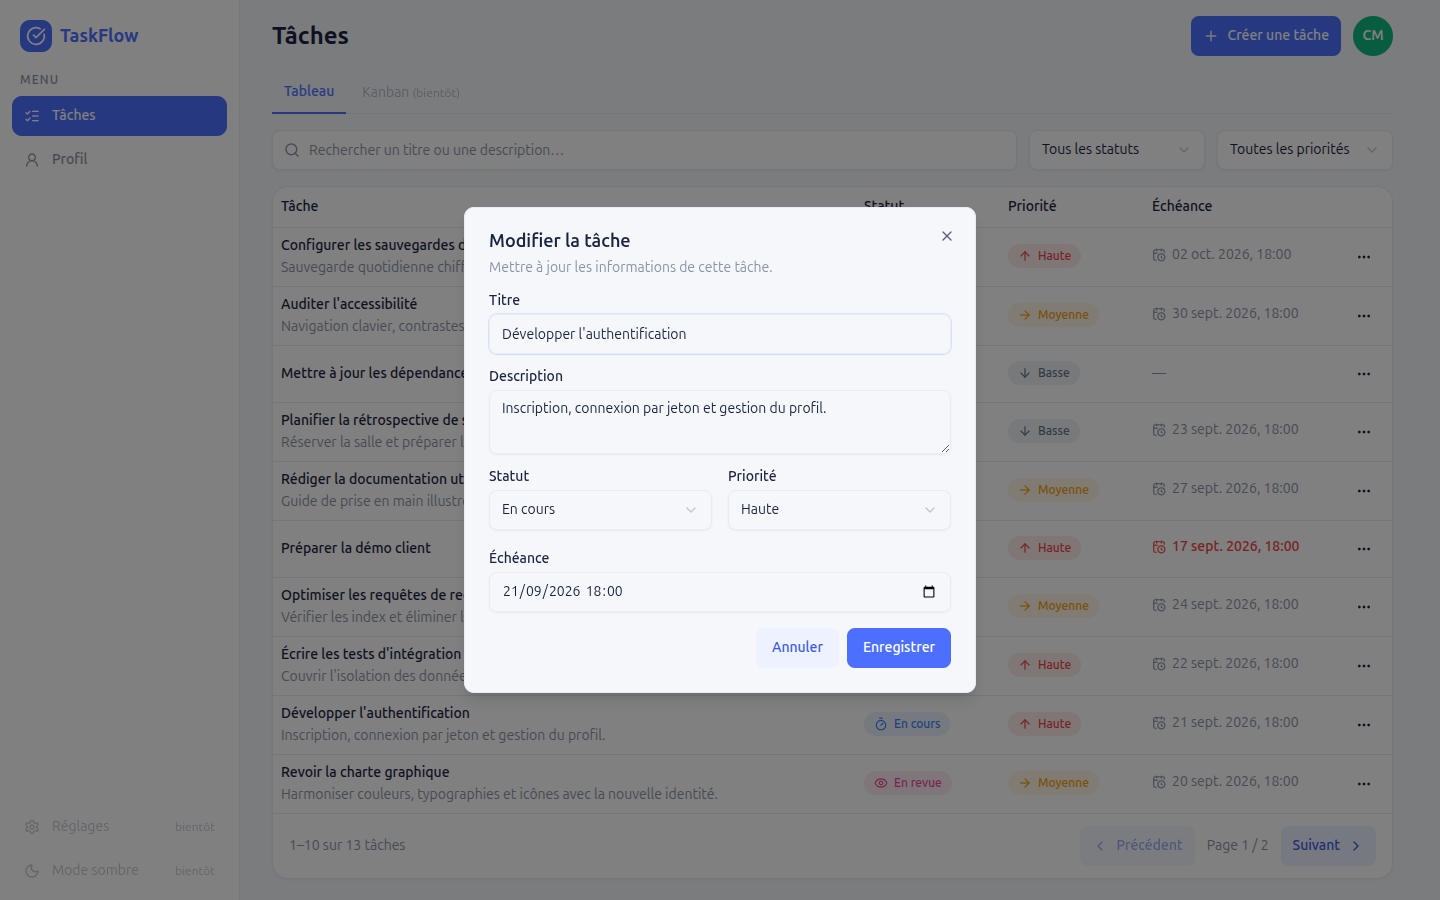
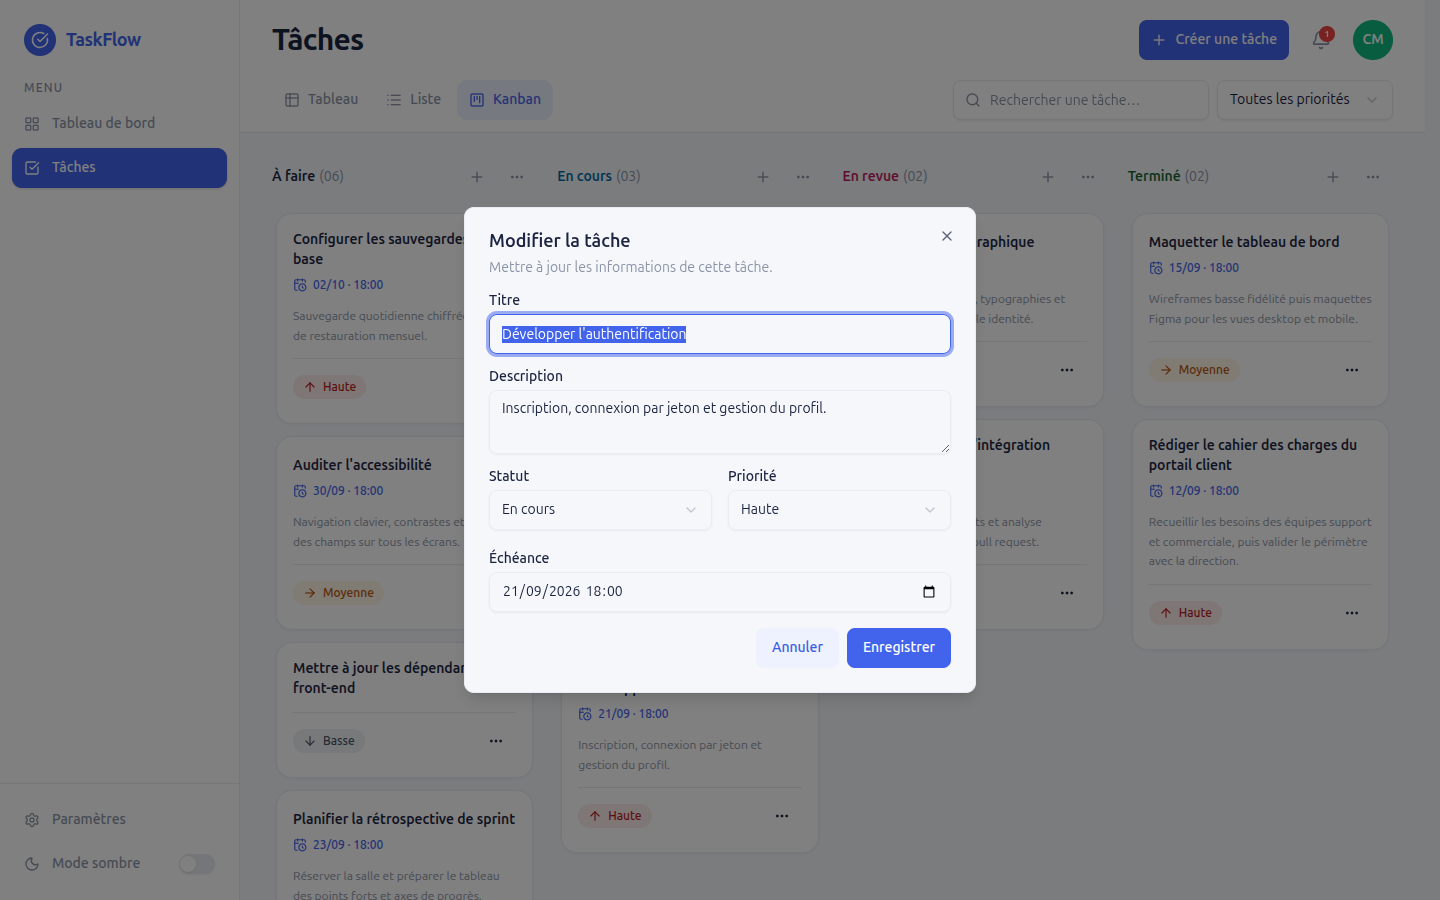
docs: document Kanban, dashboard, notifications and dark mode
Refresh screenshots with the final design, list the new endpoints and tests,
and state which parts of the reference design were deliberately left out.

diff --git a/README.md b/README.md
@@ -5,9 +5,9 @@ se connecte, puis gère **ses** tâches — création, modification, suppression
 filtres et pagination — dans une interface responsive.
 
 - **API** : Java 21 · Spring Boot 4 · Spring Security + JWT · JPA / Hibernate · MySQL 8 · Flyway
-- **Interface** : React 19 · TypeScript · Vite · Tailwind CSS 4 · shadcn/ui (Radix) · TanStack Query
+- **Interface** : React 19 · TypeScript · Vite · Tailwind CSS 4 · shadcn/ui (Radix) · TanStack Query · dnd-kit
 
-![Liste des tâches](docs/screenshots/tasks-desktop.png)
+![Tableau Kanban](docs/screenshots/tasks-kanban.png)
 
 ---
 
@@ -35,12 +35,18 @@ filtres et pagination — dans une interface responsive.
 | Compte | Inscription, connexion par JWT, session restaurée au rechargement, déconnexion |
 | Profil | Modification du nom et de l'email, changement de mot de passe (mot de passe actuel exigé) |
 | Tâches | Création, modification et suppression (avec confirmation) — titre, description, statut, priorité, échéance |
+| Kanban | Vue par défaut : une colonne par statut avec compteur ; **glisser-déposer** à la souris, au doigt ou au clavier pour changer le statut ; `+` pour créer directement dans une colonne ; menu « Déplacer vers » sur chaque carte |
+| Vues | **Kanban · Tableau · Liste**, mémorisées dans l'URL avec les filtres |
+| Tableau de bord | Chiffres clés, répartition par statut, tâches ouvertes par priorité, échéances de la semaine |
+| Notifications | Cloche de l'en-tête : tâches en retard ou à échéance dans les 24 h |
+| Mode sombre | Interrupteur dans la barre latérale ; suit la préférence du système par défaut, choix mémorisé |
 | Liste | Uniquement les tâches de l'utilisateur connecté, les plus récentes d'abord |
 | Recherche | Insensible à la casse, sur le titre **et** la description, déclenchée 300 ms après la frappe |
 | Filtres | Par statut (`À faire`, `En cours`, `En revue`, `Terminé`) et par priorité (`Basse`, `Moyenne`, `Haute`), cumulables avec la recherche |
 | Pagination | 10 tâches par page, « x–y sur N », boutons désactivés aux extrémités |
 | Erreurs | Format d'erreur unique côté API ; messages du serveur affichés sous les champs ou dans le formulaire ; écran « Réessayer » si le serveur est injoignable |
-| Responsive | Tableau sur desktop, cartes empilées et menu en tiroir sur mobile ; cibles tactiles ≥ 40 px |
+| Responsive | Colonnes Kanban défilantes et menu en tiroir sur mobile, tableau remplacé par des cartes ; cibles tactiles ≥ 40 px |
+| Accessibilité | Navigation complète au clavier, focus rendu à la fermeture des fenêtres, annonces vocales du glisser-déposer, contrastes de texte ≥ 4,5:1 (WCAG AA) en clair comme en sombre |
 
 Les filtres et la page courante sont portés par l'URL : un lien filtré se partage et le
 bouton « retour » du navigateur fonctionne. Une échéance dépassée est signalée en rouge.
@@ -62,6 +68,7 @@ bouton « retour » du navigateur fonctionne. Une échéance dépassée est sign
 | Outillage | Vite | 8 |
 | Styles | Tailwind CSS | 4 |
 | Composants | shadcn/ui sur Radix UI, icônes lucide-react | — |
+| Glisser-déposer | dnd-kit | 6 |
 | État serveur | TanStack Query | 5 |
 | Formulaires | react-hook-form + Zod | 7 / 4 |
 | Routage / HTTP | React Router, axios | 7 / 1 |
@@ -241,6 +248,9 @@ l'en-tête `Authorization: Bearer <jeton>`.
 | `POST` | `/tasks` | `201` | Crée une tâche |
 | `GET` | `/tasks/{id}` | `200` | Détail d'une tâche |
 | `PUT` | `/tasks/{id}` | `200` | Remplace les champs modifiables d'une tâche |
+| `PATCH` | `/tasks/{id}/status` | `200` | Change uniquement le statut (`{"status": "DONE"}`) — glisser-déposer du Kanban |
+| `GET` | `/tasks/stats` | `200` | Totaux par statut, tâches ouvertes par priorité, en retard, à rendre sous 7 jours |
+| `GET` | `/tasks/due?withinHours=24` | `200` | Tâches non terminées en retard ou à échéance dans la fenêtre (1 h à 30 jours), 20 au plus |
 | `DELETE` | `/tasks/{id}` | `204` | Supprime une tâche |
 | `GET` | `/actuator/health` | `200` | État de l'application — **public**, hors `/api/v1` |
 
@@ -312,6 +322,7 @@ taskflow/
 auth/        inscription, connexion                 (controller → service → DTO)
 user/        profil, mot de passe                   (entité, repository, service, mapper, controller)
 task/        CRUD, recherche, filtres, pagination   (+ Specifications, PageRequests)
+             statistiques et échéances              (TaskInsightService, lectures agrégées)
 security/    JwtService, filtre JWT, @CurrentUser, réponses 401/403 au format commun
 config/      SecurityConfig, CorsConfig
 common/      PageResponse, format d'erreur, GlobalExceptionHandler, Auditable
@@ -329,12 +340,14 @@ src/
 ├── app/          routes protégées / invitées, client TanStack Query
 ├── features/
 │   ├── auth/     contexte d'authentification, pages Connexion et Inscription
-│   ├── tasks/    page Tâches, tableau, filtres, modales, taskMeta (libellés et couleurs)
+│   ├── tasks/    page Tâches (Kanban, tableau, liste), filtres, modales, cloche, taskMeta
+│   ├── dashboard/ tableau de bord
 │   └── profile/  page Profil, formulaires
 ├── shared/
 │   ├── api/      client HTTP unique, traduction des erreurs
 │   ├── ui/       primitives shadcn/ui (Radix)
 │   ├── components/ formulaires, états vides/erreur/chargement, coquille (sidebar, en-tête)
+│   ├── theme/    mode sombre
 │   └── hooks/, lib/, config/, types/
 └── styles/       jetons de couleur du design system
 ```
@@ -360,6 +373,10 @@ de jetons de couleur.
 | **shadcn/ui sur Radix** | Modales, menus et listes accessibles (focus, clavier, ARIA) ; le code des composants est dans le dépôt et reste modifiable | Réécrire ces composants à la main |
 | **react-hook-form + Zod** | Le schéma Zod est l'unique source des règles de saisie, alignées sur la validation serveur | Validation dupliquée dans chaque formulaire |
 | **Filtres dans l'URL** | Liens partageables, historique du navigateur, aucun second état à synchroniser | État local de composant |
+| **dnd-kit pour le Kanban** | Glisser-déposer à la souris, au doigt **et au clavier**, avec annonces pour lecteurs d'écran | react-beautiful-dnd (abandonné), glisser-déposer HTML5 natif (inaccessible au clavier) |
+| **Déplacement optimiste** | La carte change de colonne immédiatement ; elle revient à sa place avec un message si le serveur refuse | Attendre la réponse avant de bouger la carte |
+| **`PATCH /status` dédié** | Un déplacement n'envoie que le statut : pas de risque d'écraser un champ modifié entre-temps | Renvoyer toute la tâche avec `PUT` |
+| **Palette de statuts validée** | Couleurs de la maquette ré-étagées pour rester distinctes en cas de daltonisme, en clair comme en sombre ; le texte coloré a ses propres nuances contrastées | Reprendre les couleurs de la maquette telles quelles |
 | **Un seul `.env` racine** | Une seule source de configuration pour Docker, l'API et Vite | Un fichier par module |
 | **nginx relaie `/api` dans l'image de l'interface** | Même origine pour le navigateur : pas de CORS à ouvrir, un seul port exposé, image indépendante de l'adresse de l'API | Appeler l'API sur un autre port et élargir le CORS |
 
@@ -381,7 +398,7 @@ de jetons de couleur.
 
 ## Tests et qualité
 
-**API** — 28 tests, exécutés sur une base H2 en mémoire (MySQL n'est pas nécessaire) :
+**API** — 31 tests, exécutés sur une base H2 en mémoire (MySQL n'est pas nécessaire) :
 
 ```bash
 cd task-manager-api-v1
@@ -390,8 +407,8 @@ cd task-manager-api-v1
 
 | Classe | Tests | Ce qui est vérifié |
 |--------|-------|--------------------|
-| `TaskRepositoryIsolationTest` | 6 | Le propriétaire retrouve sa tâche ; un autre utilisateur ne peut ni la lire, ni la supprimer, ni la trouver par recherche ou filtre ; horodatage automatique |
-| `TaskApiSecurityTest` | 4 | Bout en bout HTTP : `401` sans jeton sur toutes les routes, `404` sur la tâche d'autrui pour chaque verbe, liste limitée au demandeur, statuts et format d'erreur conservés |
+| `TaskRepositoryIsolationTest` | 8 | Le propriétaire retrouve sa tâche ; un autre utilisateur ne peut ni la lire, ni la supprimer, ni la trouver par recherche ou filtre ; statistiques et échéances limitées au propriétaire, tâches terminées exclues ; horodatage automatique |
+| `TaskApiSecurityTest` | 5 | Bout en bout HTTP : `401` sans jeton sur toutes les routes, `404` sur la tâche d'autrui pour chaque verbe (changement de statut compris, sans effet), liste et statistiques limitées au demandeur, statuts et format d'erreur conservés |
 | `JwtServiceTest` | 8 | Jeton relu correctement ; jeton altéré, signé par une autre clé, expiré ou illisible refusé ; secret absent ou trop court refusé ; durée conforme |
 | `TaskServiceTest` | 4 | Tâche rattachée à l'utilisateur authentifié ; tâche d'autrui introuvable en lecture et en suppression, modification sans aucune écriture |
 | `AuthServiceTest` | 3 | Email en double refusé, email normalisé et mot de passe haché, message générique sur identifiants invalides |
@@ -413,9 +430,17 @@ comptes, navigation au clavier, largeurs 375, 768 et 1440 px.
 
 ## Captures d'écran
 
-| Connexion | Modification d'une tâche | Mobile |
-|-----------|--------------------------|--------|
-| ![Connexion](docs/screenshots/login.png) | ![Modale d'édition](docs/screenshots/task-dialog.png) | ![Vue mobile](docs/screenshots/tasks-mobile.png) |
+| Tableau de bord | Mode sombre |
+|-----------------|-------------|
+| ![Tableau de bord](docs/screenshots/dashboard.png) | ![Kanban en mode sombre](docs/screenshots/tasks-kanban-dark.png) |
+
+| Vue Tableau | Modification d'une tâche |
+|-------------|--------------------------|
+| ![Vue Tableau](docs/screenshots/tasks-table.png) | ![Modale d'édition](docs/screenshots/task-dialog.png) |
+
+| Mobile | Connexion |
+|--------|-----------|
+| ![Kanban sur mobile](docs/screenshots/tasks-mobile.png) | ![Connexion](docs/screenshots/login.png) |
 
 ---
 
@@ -429,10 +454,14 @@ Choix assumés pour tenir le périmètre, et ce qu'il faudrait faire ensuite :
 - **Pas de refresh token** : la session expire au bout de 24 h, il faut se reconnecter.
 - **Pas de tests automatisés côté interface** : vérifications faites dans le navigateur.
   Piste : Vitest + Testing Library, puis Playwright pour les parcours.
-- **Bundle JavaScript en un seul fichier** (~690 kB, ~217 kB gzip). Piste : découpage par route.
-- **Non réalisés (bonus)** : vue Kanban avec glisser-déposer, mode sombre, statistiques,
-  intégration continue, déploiement, documentation Swagger.
+- **Bundle JavaScript en un seul fichier** (~770 kB, ~240 kB gzip). Piste : découpage par route.
+- **Kanban limité à 50 cartes par colonne** : au-delà, un lien ouvre la vue Tableau filtrée
+  sur le statut (paginée). Pas d'ordre manuel des cartes au sein d'une colonne.
+- **Notifications calculées à la demande** : rafraîchies à chaque modification et chaque
+  minute, sans notification push ni e-mail.
 - **Images Docker** : les tests ne sont pas rejoués pendant la construction de l'image de
-  l'API (`-DskipTests`) ; ils se lancent avec `./mvnw test`. Les entrées « Kanban »,
-  « Réglages » et « Mode sombre » sont visibles dans l'interface mais désactivées
-  (« bientôt »), pour ne jamais présenter un contrôle qui ne fonctionne pas.
+  l'API (`-DskipTests`) ; ils se lancent avec `./mvnw test`.
+- **Non réalisés (bonus)** : intégration continue, déploiement public, documentation Swagger.
+- **Éléments de la maquette volontairement non repris** : avatars d'équipe, intégrations
+  (Slack, GitHub, Gmail…), messagerie et images de couverture des cartes. TaskFlow est
+  mono-utilisateur ; les reproduire aurait donné des contrôles décoratifs sans fonction.
